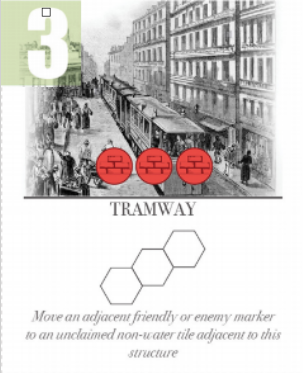
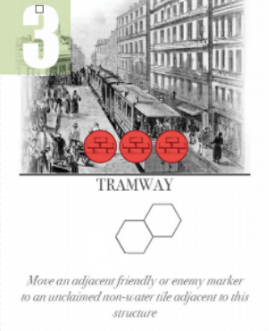
update prices

diff --git a/server/startingStateGeneration.js b/server/startingStateGeneration.js
@@ -26,20 +26,20 @@
 
       //infrastructure
       [ 
-      {'name': 'Tunnel',          'type': 'Infrastructure',               'bm': 1, 'c': 1, 'l': 3, '?': 0, 'limit': 5, 'vp': 3, 'beginner': false},
-      {'name': 'Prison',          'type': 'Infrastructure',               'bm': 0, 'c': 2, 'l': 2, '?': 0, 'limit': 5, 'vp': 2, 'beginner': false},
-      {'name': 'Tramway',         'type': 'Infrastructure',               'bm': 3, 'c': 0, 'l': 0, '?': 0, 'limit': 5, 'vp': 3, 'beginner': false},
-      {'name': 'Foundry',         'type': 'Infrastructure',               'bm': 0, 'c': 0, 'l': 3, '?': 0, 'limit': 5, 'vp': 1, 'beginner': false},
-      {'name': 'Landfill',        'type': 'Infrastructure',               'bm': 2, 'c': 2, 'l': 0, '?': 0, 'limit': 5, 'vp': 2, 'beginner': false},
-      {'name': 'Boulevard',       'type': 'Infrastructure',               'bm': 0, 'c': 0, 'l': 3, '?': 0, 'limit': 5, 'vp': 2, 'beginner': false},
+      {'name': 'Tunnel',          'type': 'Infrastructure',          'bm': 1, 'c': 1, 'l': 3, '?': 0, 'limit': 5, 'vp': 3, 'beginner': false},
+      {'name': 'Prison',          'type': 'Infrastructure',          'bm': 0, 'c': 2, 'l': 2, '?': 0, 'limit': 5, 'vp': 2, 'beginner': false},
+      {'name': 'Tramway',         'type': 'Infrastructure',          'bm': 0, 'c': 1, 'l': 2, '?': 0, 'limit': 5, 'vp': 3, 'beginner': false},
+      {'name': 'Foundry',         'type': 'Infrastructure',          'bm': 0, 'c': 0, 'l': 3, '?': 0, 'limit': 5, 'vp': 1, 'beginner': false},
+      {'name': 'Landfill',        'type': 'Infrastructure',          'bm': 2, 'c': 0, 'l': 2, '?': 0, 'limit': 5, 'vp': 2, 'beginner': false},
+      {'name': 'Boulevard',       'type': 'Infrastructure',          'bm': 1, 'c': 0, 'l': 2, '?': 0, 'limit': 5, 'vp': 2, 'beginner': false},
       ],
-      // 1-1-3,  0-2-2,  1-0-2,  0,0,3,  2-0-2,  0-0-3
+      // 1-1-3,  0-2-2,  0-1-2,  0,0,3,  2-0-2,  1-0-2
 
       //aquatic
       [
-      {'name': 'Bridge',     'type': 'Aquatic',                      'bm': 3, 'c': 1, 'l': 0, '?': 0, 'limit': 5, 'vp': 3, 'beginner': true},
+      {'name': 'Bridge',     'type': 'Aquatic',                      'bm': 1, 'c': 3, 'l': 0, '?': 0, 'limit': 5, 'vp': 3, 'beginner': true},
       {'name': 'Harbor',     'type': 'Aquatic',                      'bm': 0, 'c': 3, 'l': 0, '?': 0, 'limit': 5, 'vp': 2, 'beginner': true},
-      {'name': 'Canal',      'type': 'Aquatic',                      'bm': 2, 'c': 1, 'l': 1, '?': 0, 'limit': 5, 'vp': 2, 'beginner': false},
+      {'name': 'Canal',      'type': 'Aquatic',                      'bm': 1, 'c': 2, 'l': 1, '?': 0, 'limit': 5, 'vp': 2, 'beginner': false},
       {'name': 'Ferry',      'type': 'Aquatic',                      'bm': 1, 'c': 3, 'l': 1, '?': 0, 'limit': 5, 'vp': 3, 'beginner': true},
       {'name': 'Lighthouse', 'type': 'Aquatic',                      'bm': 1, 'c': 3, 'l': 1, '?': 0, 'limit': 5, 'vp': 2, 'beginner': false},
       ],
@@ -47,21 +47,21 @@
 
       //commercial
       [
-      {'name': 'Tenement',        'type': 'Commercial',               'bm': 0, 'c': 0, 'l': 0, '?': 5, 'limit': 5, 'vp': 3, 'beginner': true},
-      {'name': 'Bazaar',          'type': 'Commercial',               'bm': 0, 'c': 0, 'l': 0, '?': 6, 'limit': 5, 'vp': 3, 'beginner': true},
-      {'name': 'Refinery',        'type': 'Commercial',               'bm': 0, 'c': 0, 'l': 0, '?': 3, 'limit': 5, 'vp': 1, 'beginner': true}, 
-      {'name': 'Casino',          'type': 'Commercial',               'bm': 0, 'c': 0, 'l': 0, '?': 4, 'limit': 5, 'vp': 0, 'beginner': false},
-      {'name': 'Loan Office',     'type': 'Commercial',               'bm': 0, 'c': 0, 'l': 0, '?': 2, 'limit': 5, 'vp': -1, 'beginner': false},
+      {'name': 'Tenement',        'type': 'Commercial',              'bm': 0, 'c': 0, 'l': 0, '?': 5, 'limit': 5, 'vp': 3, 'beginner': true},
+      {'name': 'Bazaar',          'type': 'Commercial',              'bm': 0, 'c': 0, 'l': 0, '?': 6, 'limit': 5, 'vp': 3, 'beginner': true},
+      {'name': 'Refinery',        'type': 'Commercial',              'bm': 0, 'c': 0, 'l': 0, '?': 3, 'limit': 5, 'vp': 1, 'beginner': true}, 
+      {'name': 'Casino',          'type': 'Commercial',              'bm': 0, 'c': 0, 'l': 0, '?': 4, 'limit': 5, 'vp': 0, 'beginner': false},
+      {'name': 'Loan Office',     'type': 'Commercial',              'bm': 0, 'c': 0, 'l': 0, '?': 2, 'limit': 5, 'vp': -1, 'beginner': false},
 
       ],
 
       //civic
       [
-      {'name': 'Shipyard',   'type': 'Civic',                        'bm': 1, 'c': 0, 'l': 3, '?': 0, 'limit': 5, 'vp': 2, 'beginner': false},
-      {'name': 'Tax House',  'type': 'Civic',                        'bm': 0, 'c': 3, 'l': 2, '?': 0, 'limit': 5, 'vp': 2, 'beginner': true},
+      {'name': 'Shipyard',   'type': 'Civic',                        'bm': 3, 'c': 1, 'l': 0, '?': 0, 'limit': 5, 'vp': 2, 'beginner': false},
+      {'name': 'Tax House',  'type': 'Civic',                        'bm': 3, 'c': 0, 'l': 2, '?': 0, 'limit': 5, 'vp': 2, 'beginner': true},
       {'name': 'Cemetery',   'type': 'Civic',                        'bm': 3, 'c': 2, 'l': 0, '?': 0, 'limit': 5, 'vp': 2, 'beginner': true},
-      {'name': 'Sewers',     'type': 'Civic',                        'bm': 2, 'c': 0, 'l': 3, '?': 0, 'limit': 5, 'vp': 2, 'beginner': false},
-      {'name': 'Monument',   'type': 'Civic',                        'bm': 3, 'c': 1, 'l': 1, '?': 0, 'limit': 5, 'vp': 2, 'beginner': false},
+      {'name': 'Sewers',     'type': 'Civic',                        'bm': 3, 'c': 1, 'l': 1, '?': 0, 'limit': 5, 'vp': 2, 'beginner': false},
+      {'name': 'Monument',   'type': 'Civic',                        'bm': 3, 'c': 2, 'l': 0, '?': 0, 'limit': 5, 'vp': 2, 'beginner': false},
       ],
       // 3-1-0,  3-0-2,  3-2-0,  3-1-1,  3-2-0 
 
@@ -114,9 +114,18 @@
         buildings[i].splice(x, 1)
 
         if (derp == 'Boulevard') {
-          results.push({'name': 'Boulevard-Delux', 'type': 'Infrastructure', 'bm': 0, 'c': 0, 'l': 4, '?': 0, 'limit': 5, 'vp': 2, 'beginner': false})
+          results.push({'name': 'Boulevard-Delux', 'type': 'Infrastructure', 'bm': 1, 'c': 0, 'l': 3, '?': 0, 'limit': 5, 'vp': 2, 'beginner': false})
         }
       }
+      // results = [ 
+      // {'name': 'Tunnel',          'type': 'Infrastructure',               'bm': 1, 'c': 1, 'l': 3, '?': 0, 'limit': 5, 'vp': 3, 'beginner': false},
+      // {'name': 'Prison',          'type': 'Infrastructure',               'bm': 0, 'c': 2, 'l': 2, '?': 0, 'limit': 5, 'vp': 2, 'beginner': false},
+      // {'name': 'Tramway',         'type': 'Infrastructure',               'bm': 3, 'c': 0, 'l': 0, '?': 0, 'limit': 5, 'vp': 3, 'beginner': false},
+      // {'name': 'Foundry',         'type': 'Infrastructure',               'bm': 0, 'c': 0, 'l': 3, '?': 0, 'limit': 5, 'vp': 1, 'beginner': false},
+      // {'name': 'Landfill',        'type': 'Infrastructure',               'bm': 2, 'c': 2, 'l': 0, '?': 0, 'limit': 5, 'vp': 2, 'beginner': false},
+      // {'name': 'Boulevard',       'type': 'Infrastructure',               'bm': 0, 'c': 3, 'l': 0, '?': 0, 'limit': 5, 'vp': 2, 'beginner': false},
+      // {'name': 'Boulevard-Delux', 'type': 'Infrastructure', 'bm': 0, 'c': 4, 'l': 0, '?': 0, 'limit': 5, 'vp': 2, 'beginner': false}
+      // ]
       for (i=0; i<3; i++) {
         var x = Math.floor(Math.random() * buildings[5].length)
         results.push(buildings[5][x])

diff --git a/client/buildingValidation.js b/client/buildingValidation.js
@@ -460,7 +460,7 @@ function prisonHelperHelper(friendlyPrisonCoords, extraArray, board, move) {
 }
 function tramway(coords, move, board, startingPlayer) {
   var on = builtOn(coords, move, board, startingPlayer)
-  return on.friendly == 3 && ShapeUtils.checkShape3Line(coords)
+  return on.friendly == 2 && ShapeUtils.checkShapeDouble(coords)
 }
 function validateTramwayExtra(coords, extraArray, board, move) {
   return extraArray
@@ -803,7 +803,7 @@ var buildingData = {
   'Boulevard-Delux': {'validation_function': boulevard_delux, 'length': 3},
   'Tunnel': {'validation_function': tunnel, 'length': 1},
   'Prison': {'validation_function': prison, 'length': 2},
-  'Tramway': {'validation_function': tramway, 'length': 3},
+  'Tramway': {'validation_function': tramway, 'length': 2},
   'Foundry': {'validation_function': foundry, 'length': 2},
 
   'Watchtower': {'validation_function': watchTower, 'length': 1},

diff --git a/client/index.js b/client/index.js
@@ -327,7 +327,6 @@ function onClickShopRow(row) {
           buildingName == "Refinery" ||
           buildingName == "Bazaar" ||
           buildingName == "Housing Shack" ||
-          buildingName == "Boulevard-Delux" ||
           buildingName == "Loan Office") {
         document.getElementById('money_form_input').style.display = "block"
         if (buildingName == "Casino" || buildingName == "Loan Office") {
